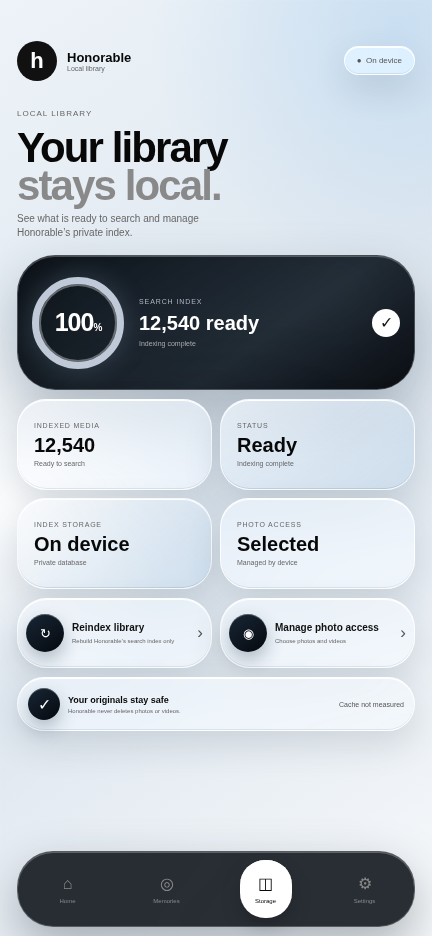
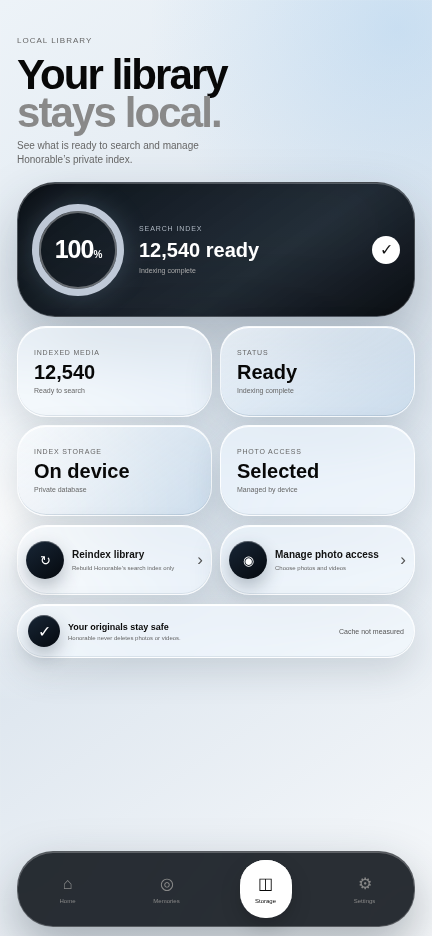
Remove repeated top branding from screens

Changed region(s): [[0.0301, 0.031, 0.963, 0.8056], [0.8426, 0.062, 0.9329, 0.0929], [0.9028, 0.7436, 0.9329, 0.7746]]

diff --git a/Honorable-mobile-app-main/mobile-react-native/src/screens/HomeScreen.tsx b/Honorable-mobile-app-main/mobile-react-native/src/screens/HomeScreen.tsx
@@ -4,5 +4,5 @@ import{SafeAreaView}from'react-native-safe-area-context';
 import{Badge}from'@/components/ui/badge';import{Button}from'@/components/ui/button';import{Text}from'@/components/ui/text';import{Progress}from'@/components/ui/progress';
 import{HonorableSearchBar}from'../components/HonorableSearchBar';import{MediaGrid,MediaItem,previewMedia}from'../components/MediaGrid';import{MediaViewer}from'../components/MediaViewer';import{SearchModeControl,SearchModeSheet}from'../components/SearchModeSheet';import{colors}from'../design-system/tokens';import{honorableNative,EntitlementState,SearchResponse}from'../native/HonorableNative';import type{SearchModeId}from'../search/searchModes';
 const filters=['All','Photos','Videos','Screenshots']as const;type Filter=typeof filters[number];
-export function HomeScreen(){const[query,setQuery]=useState('');const[response,setResponse]=useState<SearchResponse>();const[loading,setLoading]=useState(false);const[error,setError]=useState('');const[filter,setFilter]=useState<Filter>('All');const[selected,setSelected]=useState<MediaItem>();const[mode,setMode]=useState<SearchModeId>('QUICK');const[modeOpen,setModeOpen]=useState(false);const[entitlement,setEntitlement]=useState<EntitlementState>();useEffect(()=>{honorableNative.getEntitlementState().then(setEntitlement).catch(()=>undefined)},[]);const nativeItems=useMemo(()=>response?.results.map(r=>({id:`${r.mediaId}-${r.rank}`,uri:r.mediaUri,type:r.mediaType,result:r,duration:r.bestTimestampMs===undefined?undefined:`${Math.floor(r.bestTimestampMs/60000)}:${String(Math.floor(r.bestTimestampMs/1000)%60).padStart(2,'0')}`}as MediaItem))??[],[response]);const demo=__DEV__&&!response?previewMedia:[];const items=(nativeItems.length?nativeItems:demo).filter(item=>filter==='All'||filter==='Photos'&&item.type==='IMAGE'||filter==='Videos'&&item.type==='VIDEO'||filter==='Screenshots'&&item.id.includes('verification'));const search=async()=>{const clean=query.trim();if(!clean)return;Keyboard.dismiss();setLoading(true);setError('');try{setResponse(await honorableNative.search(clean));}catch(value){setError(value instanceof Error?value.message:'Search unavailable');setResponse(undefined)}finally{setLoading(false)}};return <SafeAreaView edges={['top']} style={styles.safe}><ScrollView keyboardShouldPersistTaps="handled" contentContainerStyle={styles.content}><View style={styles.header}><Text className="text-[12px] font-semibold tracking-[2px] text-muted-foreground">HONORABLE</Text><Text className="text-[13px] text-muted-foreground">On-device</Text></View><Text accessibilityRole="header" className="mx-4 mt-4 text-[30px] font-semibold leading-[34px] tracking-[-1px] text-foreground">Find a moment.</Text><Text className="mx-4 mb-4 mt-1 text-[14px] text-muted-foreground">Describe anything you remember.</Text><HonorableSearchBar value={query} onChangeText={setQuery} onSubmit={search}/><SearchModeControl value={mode} onPress={()=>setModeOpen(true)}/>{loading&&<View style={styles.index}><ActivityIndicator color={colors.accent}/><Text variant="muted">Searching your library…</Text></View>}{!!error&&<View style={styles.message}><Text className="text-destructive">{error}</Text></View>}{response&&!response.confident&&<View style={styles.message}><Text variant="large">No clear match yet</Text><Text variant="muted">Try a color, place, date, object, or visible text.</Text></View>}{!loading&&items.length>0&&<><View style={styles.resultsHeader}><Text className="text-[17px] font-semibold text-foreground">{response?`${nativeItems.length} matches`:'Recent'}</Text>{response?<Badge variant="secondary"><Text>{response.decision}</Text></Badge>:<Text variant="muted" className="text-[12px]">Your library</Text>}</View>{response&&<ScrollView horizontal showsHorizontalScrollIndicator={false} contentContainerStyle={styles.filters}>{filters.map(item=><Button key={item} size="sm" variant={filter===item?'default':'ghost'} className={filter===item?'rounded-full':'rounded-full bg-secondary/40'} onPress={()=>setFilter(item)}><Text>{item}</Text></Button>)}</ScrollView>}<MediaGrid items={items} onPress={setSelected}/></>}{loading&&<View style={styles.progress}><Progress value={64} indicatorClassName="bg-accent"/><Text variant="muted">You can keep browsing while Honorable searches.</Text></View>}</ScrollView><MediaViewer item={selected} onClose={()=>setSelected(undefined)}/><SearchModeSheet visible={modeOpen} value={mode} entitlement={entitlement} onClose={()=>setModeOpen(false)} onSelect={setMode}/></SafeAreaView>}
-const styles=StyleSheet.create({safe:{flex:1,backgroundColor:colors.background},content:{paddingBottom:90},header:{paddingHorizontal:16,paddingTop:10,flexDirection:'row',justifyContent:'space-between',alignItems:'center'},index:{marginHorizontal:18,marginTop:14,flexDirection:'row',gap:10,alignItems:'center'},message:{margin:16,padding:18,gap:6,borderRadius:18,backgroundColor:colors.surface},resultsHeader:{marginTop:20,marginBottom:10,paddingHorizontal:16,flexDirection:'row',justifyContent:'space-between',alignItems:'center',gap:10},filters:{paddingHorizontal:12,paddingBottom:12,gap:6},progress:{margin:18,gap:10}});
+export function HomeScreen(){const[query,setQuery]=useState('');const[response,setResponse]=useState<SearchResponse>();const[loading,setLoading]=useState(false);const[error,setError]=useState('');const[filter,setFilter]=useState<Filter>('All');const[selected,setSelected]=useState<MediaItem>();const[mode,setMode]=useState<SearchModeId>('QUICK');const[modeOpen,setModeOpen]=useState(false);const[entitlement,setEntitlement]=useState<EntitlementState>();useEffect(()=>{honorableNative.getEntitlementState().then(setEntitlement).catch(()=>undefined)},[]);const nativeItems=useMemo(()=>response?.results.map(r=>({id:`${r.mediaId}-${r.rank}`,uri:r.mediaUri,type:r.mediaType,result:r,duration:r.bestTimestampMs===undefined?undefined:`${Math.floor(r.bestTimestampMs/60000)}:${String(Math.floor(r.bestTimestampMs/1000)%60).padStart(2,'0')}`}as MediaItem))??[],[response]);const demo=__DEV__&&!response?previewMedia:[];const items=(nativeItems.length?nativeItems:demo).filter(item=>filter==='All'||filter==='Photos'&&item.type==='IMAGE'||filter==='Videos'&&item.type==='VIDEO'||filter==='Screenshots'&&item.id.includes('verification'));const search=async()=>{const clean=query.trim();if(!clean)return;Keyboard.dismiss();setLoading(true);setError('');try{setResponse(await honorableNative.search(clean));}catch(value){setError(value instanceof Error?value.message:'Search unavailable');setResponse(undefined)}finally{setLoading(false)}};return <SafeAreaView edges={['top']} style={styles.safe}><ScrollView keyboardShouldPersistTaps="handled" contentContainerStyle={styles.content}><View style={styles.header}><Text className="text-[13px] text-muted-foreground">On-device</Text></View><Text accessibilityRole="header" className="mx-4 mt-4 text-[30px] font-semibold leading-[34px] tracking-[-1px] text-foreground">Find a moment.</Text><Text className="mx-4 mb-4 mt-1 text-[14px] text-muted-foreground">Describe anything you remember.</Text><HonorableSearchBar value={query} onChangeText={setQuery} onSubmit={search}/><SearchModeControl value={mode} onPress={()=>setModeOpen(true)}/>{loading&&<View style={styles.index}><ActivityIndicator color={colors.accent}/><Text variant="muted">Searching your library…</Text></View>}{!!error&&<View style={styles.message}><Text className="text-destructive">{error}</Text></View>}{response&&!response.confident&&<View style={styles.message}><Text variant="large">No clear match yet</Text><Text variant="muted">Try a color, place, date, object, or visible text.</Text></View>}{!loading&&items.length>0&&<><View style={styles.resultsHeader}><Text className="text-[17px] font-semibold text-foreground">{response?`${nativeItems.length} matches`:'Recent'}</Text>{response?<Badge variant="secondary"><Text>{response.decision}</Text></Badge>:<Text variant="muted" className="text-[12px]">Your library</Text>}</View>{response&&<ScrollView horizontal showsHorizontalScrollIndicator={false} contentContainerStyle={styles.filters}>{filters.map(item=><Button key={item} size="sm" variant={filter===item?'default':'ghost'} className={filter===item?'rounded-full':'rounded-full bg-secondary/40'} onPress={()=>setFilter(item)}><Text>{item}</Text></Button>)}</ScrollView>}<MediaGrid items={items} onPress={setSelected}/></>}{loading&&<View style={styles.progress}><Progress value={64} indicatorClassName="bg-accent"/><Text variant="muted">You can keep browsing while Honorable searches.</Text></View>}</ScrollView><MediaViewer item={selected} onClose={()=>setSelected(undefined)}/><SearchModeSheet visible={modeOpen} value={mode} entitlement={entitlement} onClose={()=>setModeOpen(false)} onSelect={setMode}/></SafeAreaView>}
+const styles=StyleSheet.create({safe:{flex:1,backgroundColor:colors.background},content:{paddingBottom:90},header:{paddingHorizontal:16,paddingTop:10,flexDirection:'row',justifyContent:'flex-end',alignItems:'center'},index:{marginHorizontal:18,marginTop:14,flexDirection:'row',gap:10,alignItems:'center'},message:{margin:16,padding:18,gap:6,borderRadius:18,backgroundColor:colors.surface},resultsHeader:{marginTop:20,marginBottom:10,paddingHorizontal:16,flexDirection:'row',justifyContent:'space-between',alignItems:'center',gap:10},filters:{paddingHorizontal:12,paddingBottom:12,gap:6},progress:{margin:18,gap:10}});

diff --git a/Honorable-mobile-app-main/mobile-react-native/src/screens/StorageScreen.tsx b/Honorable-mobile-app-main/mobile-react-native/src/screens/StorageScreen.tsx
@@ -23,7 +23,7 @@ export function StorageScreen(){
   const reindex=()=>Alert.alert('Reindex library?','This rebuilds only Honorable’s private search index. Your original photos and videos will never be deleted.',[{text:'Cancel',style:'cancel'},{text:'Reindex',onPress:async()=>{setRefreshing(true);try{await honorableNative.refreshIndex();await load()}catch(value){setError(value instanceof Error?value.message:'Could not refresh index')}finally{setRefreshing(false)}}}]);
   const indexed=status?.indexedCount.toLocaleString()??'—';const ready=status?.status.toLowerCase().includes('ready');
   return <SafeAreaView edges={['top']} style={s.safe}><ScrollView contentContainerStyle={s.content}>
-    <View style={s.brand}><View style={s.mark}><Text style={s.markText}>h</Text></View><View><Text style={s.brandName}>Honorable</Text><Text style={s.brandDetail}>Local library</Text></View><View style={s.localPill}><View style={s.localDot}/><Text style={s.localText}>On device</Text></View></View>
+    <View style={s.utilityBar}><View style={s.localPill}><View style={s.localDot}/><Text style={s.localText}>On device</Text></View></View>
     <View style={s.intro}><Text style={s.eyebrow}>LOCAL LIBRARY</Text><Text accessibilityRole="header" style={s.title}>Your library</Text><Text style={[s.title,s.titleMuted]}>stays local.</Text><Text style={s.subtitle}>See what is ready to search and manage Honorable’s private index.</Text></View>
     {loading?<ActivityIndicator style={s.loading} color={p.ink}/>:<>
       <View style={s.indexCard}><View style={s.progressRing}><Text style={s.progressValue}>{ready?'100':'••'}<Text style={s.progressUnit}>%</Text></Text></View><View style={s.indexCopy}><Text style={s.indexLabel}>SEARCH INDEX</Text><Text style={s.indexValue}>{indexed} ready</Text><Text style={s.indexDetail}>{status?.status??'Status unavailable'}</Text></View><View style={s.check}><Check color={p.ink} size={16}/></View></View>
@@ -34,4 +34,4 @@ export function StorageScreen(){
   </ScrollView></SafeAreaView>;
 }
 
-const s=StyleSheet.create({safe:{flex:1,backgroundColor:p.bg},content:{paddingHorizontal:17,paddingTop:10,paddingBottom:104},brand:{height:58,flexDirection:'row',alignItems:'center'},mark:{width:40,height:40,borderRadius:20,alignItems:'center',justifyContent:'center',backgroundColor:p.ink},markText:{color:p.white,fontSize:22,fontWeight:'700'},brandName:{marginLeft:10,color:p.ink,fontSize:13,fontWeight:'700'},brandDetail:{marginLeft:10,color:p.muted,fontSize:8},localPill:{marginLeft:'auto',paddingHorizontal:12,height:34,borderRadius:17,borderWidth:1,borderColor:p.line,backgroundColor:p.white,flexDirection:'row',alignItems:'center',gap:5},localDot:{width:4,height:4,borderRadius:2,backgroundColor:'#6C91C2'},localText:{color:p.muted,fontSize:9},intro:{marginTop:12},eyebrow:{color:p.muted,fontSize:9,fontWeight:'600',letterSpacing:1.2},title:{marginTop:8,color:p.ink,fontSize:42,lineHeight:40,fontWeight:'700',letterSpacing:-1.8},titleMuted:{marginTop:-2,color:'#898989'},subtitle:{maxWidth:285,marginTop:6,color:p.muted,fontSize:12,lineHeight:17},loading:{marginTop:90},indexCard:{height:136,marginTop:15,padding:14,borderRadius:38,backgroundColor:p.ink,flexDirection:'row',alignItems:'center'},progressRing:{width:92,height:92,borderRadius:46,borderWidth:7,borderColor:p.ring,alignItems:'center',justifyContent:'center'},progressValue:{color:p.white,fontSize:24,fontWeight:'700'},progressUnit:{fontSize:10},indexCopy:{flex:1,paddingLeft:15},indexLabel:{color:'#AEB7C2',fontSize:8,fontWeight:'600',letterSpacing:1},indexValue:{marginTop:6,color:p.white,fontSize:20,fontWeight:'700'},indexDetail:{marginTop:5,color:'#AAAAAA',fontSize:9},check:{width:29,height:29,borderRadius:15,alignItems:'center',justifyContent:'center',backgroundColor:p.white},metrics:{marginTop:9,flexDirection:'row',flexWrap:'wrap',gap:8},metric:{width:'48.8%',height:91,paddingHorizontal:16,justifyContent:'center',borderRadius:29,borderWidth:1,borderColor:p.line,backgroundColor:p.soft},metricStrong:{backgroundColor:p.strong},metricLabel:{color:p.muted,fontSize:8,fontWeight:'600',letterSpacing:.8},metricValue:{marginTop:5,color:p.ink,fontSize:20,fontWeight:'700'},metricDetail:{marginTop:3,color:p.muted,fontSize:8},actions:{marginTop:9,flexDirection:'row',gap:8},action:{width:'48.8%',height:72,padding:8,borderRadius:30,borderWidth:1,borderColor:p.line,backgroundColor:'#EEEEEE',flexDirection:'row',alignItems:'center'},disabled:{opacity:.55},actionIcon:{width:38,height:38,borderRadius:19,alignItems:'center',justifyContent:'center',backgroundColor:p.ink},actionCopy:{flex:1,paddingLeft:8},actionTitle:{color:p.ink,fontSize:10,fontWeight:'700'},actionDetail:{marginTop:4,color:p.muted,fontSize:7,lineHeight:9},safeNote:{height:55,marginTop:9,paddingHorizontal:10,borderRadius:28,borderWidth:1,borderColor:p.line,backgroundColor:'#F8F8F8',flexDirection:'row',alignItems:'center'},safeIcon:{width:32,height:32,borderRadius:16,alignItems:'center',justifyContent:'center',backgroundColor:p.ink},safeCopy:{flex:1,paddingLeft:8},safeTitle:{color:p.ink,fontSize:9,fontWeight:'700'},safeDetail:{marginTop:3,color:p.muted,fontSize:7},cache:{color:p.muted,fontSize:8},error:{marginTop:12,color:'#A33',fontSize:12}});
+const s=StyleSheet.create({safe:{flex:1,backgroundColor:p.bg},content:{paddingHorizontal:17,paddingTop:10,paddingBottom:104},utilityBar:{height:42,flexDirection:'row',justifyContent:'flex-end',alignItems:'center'},localPill:{paddingHorizontal:12,height:34,borderRadius:17,borderWidth:1,borderColor:p.line,backgroundColor:p.white,flexDirection:'row',alignItems:'center',gap:5},localDot:{width:4,height:4,borderRadius:2,backgroundColor:'#6C91C2'},localText:{color:p.muted,fontSize:9},intro:{marginTop:8},eyebrow:{color:p.muted,fontSize:9,fontWeight:'600',letterSpacing:1.2},title:{marginTop:8,color:p.ink,fontSize:42,lineHeight:40,fontWeight:'700',letterSpacing:-1.8},titleMuted:{marginTop:-2,color:'#898989'},subtitle:{maxWidth:285,marginTop:6,color:p.muted,fontSize:12,lineHeight:17},loading:{marginTop:90},indexCard:{height:136,marginTop:15,padding:14,borderRadius:38,backgroundColor:p.ink,flexDirection:'row',alignItems:'center'},progressRing:{width:92,height:92,borderRadius:46,borderWidth:7,borderColor:p.ring,alignItems:'center',justifyContent:'center'},progressValue:{color:p.white,fontSize:24,fontWeight:'700'},progressUnit:{fontSize:10},indexCopy:{flex:1,paddingLeft:15},indexLabel:{color:'#AEB7C2',fontSize:8,fontWeight:'600',letterSpacing:1},indexValue:{marginTop:6,color:p.white,fontSize:20,fontWeight:'700'},indexDetail:{marginTop:5,color:'#AAAAAA',fontSize:9},check:{width:29,height:29,borderRadius:15,alignItems:'center',justifyContent:'center',backgroundColor:p.white},metrics:{marginTop:9,flexDirection:'row',flexWrap:'wrap',gap:8},metric:{width:'48.8%',height:91,paddingHorizontal:16,justifyContent:'center',borderRadius:29,borderWidth:1,borderColor:p.line,backgroundColor:p.soft},metricStrong:{backgroundColor:p.strong},metricLabel:{color:p.muted,fontSize:8,fontWeight:'600',letterSpacing:.8},metricValue:{marginTop:5,color:p.ink,fontSize:20,fontWeight:'700'},metricDetail:{marginTop:3,color:p.muted,fontSize:8},actions:{marginTop:9,flexDirection:'row',gap:8},action:{width:'48.8%',height:72,padding:8,borderRadius:30,borderWidth:1,borderColor:p.line,backgroundColor:'#EEEEEE',flexDirection:'row',alignItems:'center'},disabled:{opacity:.55},actionIcon:{width:38,height:38,borderRadius:19,alignItems:'center',justifyContent:'center',backgroundColor:p.ink},actionCopy:{flex:1,paddingLeft:8},actionTitle:{color:p.ink,fontSize:10,fontWeight:'700'},actionDetail:{marginTop:4,color:p.muted,fontSize:7,lineHeight:9},safeNote:{height:55,marginTop:9,paddingHorizontal:10,borderRadius:28,borderWidth:1,borderColor:p.line,backgroundColor:'#F8F8F8',flexDirection:'row',alignItems:'center'},safeIcon:{width:32,height:32,borderRadius:16,alignItems:'center',justifyContent:'center',backgroundColor:p.ink},safeCopy:{flex:1,paddingLeft:8},safeTitle:{color:p.ink,fontSize:9,fontWeight:'700'},safeDetail:{marginTop:3,color:p.muted,fontSize:7},cache:{color:p.muted,fontSize:8},error:{marginTop:12,color:'#A33',fontSize:12}});

diff --git a/Honorable-mobile-app-main/mobile-react-native/src/screens/SettingsScreen.tsx b/Honorable-mobile-app-main/mobile-react-native/src/screens/SettingsScreen.tsx
@@ -12,11 +12,11 @@ const glassDepth={shadowColor:'#34495C',shadowOffset:{width:0,height:14},shadowO
 function Row({icon,title,detail,onPress}:{icon:React.ReactNode;title:string;detail:string;onPress?:()=>void}){return <Pressable accessibilityRole="button" disabled={!onPress} onPress={onPress} style={[s.row,!onPress&&s.disabled]}><View style={s.rowIcon}>{icon}</View><View style={s.rowCopy}><Text style={s.rowTitle}>{title}</Text><Text style={s.rowDetail}>{detail}</Text></View><ChevronRight color={p.muted} size={18}/></Pressable>}
 
 export function SettingsScreen(){const navigation=useNavigation<NativeStackNavigationProp<RootStackParamList>>();return <SafeAreaView edges={['top']} style={s.safe}><ScrollView contentContainerStyle={s.content}>
-  <View style={s.brand}><View style={s.mark}><Text style={s.markText}>h</Text></View><View><Text style={s.brandName}>Honorable</Text><Text style={s.brandDetail}>Your preferences</Text></View><View style={s.profile}><CircleUserRound color={p.ink} size={18}/></View></View>
+  <View style={s.utilityBar}><View style={s.profile}><CircleUserRound color={p.ink} size={18}/></View></View>
   <View style={s.intro}><Text style={s.eyebrow}>SETTINGS</Text><Text accessibilityRole="header" style={s.title}>Made for you.</Text><Text style={[s.title,s.titleMuted]}>Private by design.</Text><Text style={s.subtitle}>Control access, plans, and the details that make Honorable yours.</Text></View>
   <View style={s.privacyCard}><View style={s.privacyIcon}><ShieldCheck color={p.ink} size={22}/></View><View style={s.privacyCopy}><Text style={s.privacyLabel}>PRIVACY</Text><Text style={s.privacyTitle}>On-device by default</Text><Text style={s.privacyDetail}>Your searches and media stay on this phone.</Text></View><View style={s.check}><Check color={p.ink} size={15}/></View></View>
   <View style={s.quickGrid}><Pressable style={[s.quick,glassDepth]} onPress={()=>Linking.openSettings()}><Images color={p.ink} size={20}/><Text style={s.quickLabel}>PHOTO ACCESS</Text><Text style={s.quickTitle}>Managed by device</Text><Text style={s.quickDetail}>Choose photos & videos</Text></Pressable><Pressable style={[s.quick,s.quickStrong,glassDepth]} onPress={()=>navigation.navigate('Usage')}><Heart color={p.ink} size={20}/><Text style={s.quickLabel}>YOUR PLAN</Text><Text style={s.quickTitle}>Usage & limits</Text><Text style={s.quickDetail}>See what is included</Text></Pressable></View>
   <Text style={s.sectionLabel}>HONORABLE</Text><View style={[s.rows,glassDepth]}><Row icon={<Sparkles color={p.white} size={16}/>} title="Plans" detail="Compare available options" onPress={()=>navigation.navigate('Plans')}/><Row icon={<FileText color={p.white} size={16}/>} title="About & legal" detail="Terms of Service and Privacy Policy" onPress={()=>navigation.navigate('AboutLegal')}/><Row icon={<ShieldCheck color={p.white} size={16}/>} title="Engine health" detail="Developer diagnostics"/></View>
 </ScrollView></SafeAreaView>}
 
-const s=StyleSheet.create({safe:{flex:1,backgroundColor:p.bg},content:{paddingHorizontal:17,paddingTop:10,paddingBottom:104},brand:{height:58,flexDirection:'row',alignItems:'center'},mark:{width:40,height:40,borderRadius:20,alignItems:'center',justifyContent:'center',backgroundColor:p.ink},markText:{color:p.white,fontSize:22,fontWeight:'700'},brandName:{marginLeft:10,color:p.ink,fontSize:13,fontWeight:'700'},brandDetail:{marginLeft:10,color:p.muted,fontSize:8},profile:{marginLeft:'auto',width:38,height:38,borderRadius:19,borderWidth:1,borderColor:p.line,backgroundColor:p.white,alignItems:'center',justifyContent:'center'},intro:{marginTop:12},eyebrow:{color:p.muted,fontSize:9,fontWeight:'600',letterSpacing:1.2},title:{marginTop:8,color:p.ink,fontSize:40,lineHeight:38,fontWeight:'700',letterSpacing:-1.7},titleMuted:{marginTop:-2,color:'#898989'},subtitle:{maxWidth:315,marginTop:7,color:p.muted,fontSize:12,lineHeight:17},privacyCard:{height:126,marginTop:16,padding:14,borderRadius:38,backgroundColor:p.ink,flexDirection:'row',alignItems:'center'},privacyIcon:{width:62,height:62,borderRadius:31,backgroundColor:p.white,alignItems:'center',justifyContent:'center'},privacyCopy:{flex:1,paddingLeft:14},privacyLabel:{color:'#AEB7C2',fontSize:8,fontWeight:'600',letterSpacing:1},privacyTitle:{marginTop:6,color:p.white,fontSize:18,fontWeight:'700'},privacyDetail:{maxWidth:205,marginTop:5,color:'#AAAAAA',fontSize:9,lineHeight:12},check:{width:28,height:28,borderRadius:14,backgroundColor:p.white,alignItems:'center',justifyContent:'center'},quickGrid:{marginTop:9,flexDirection:'row',gap:8},quick:{width:'48.8%',height:124,padding:16,borderRadius:31,borderWidth:1,borderColor:p.line,backgroundColor:p.soft},quickStrong:{backgroundColor:p.strong},quickLabel:{marginTop:12,color:p.muted,fontSize:8,fontWeight:'600',letterSpacing:.8},quickTitle:{marginTop:5,color:p.ink,fontSize:16,fontWeight:'700'},quickDetail:{marginTop:4,color:p.muted,fontSize:8},sectionLabel:{marginTop:18,marginBottom:7,color:p.muted,fontSize:8,fontWeight:'600',letterSpacing:1},rows:{borderRadius:28,overflow:'hidden',borderWidth:1,borderColor:p.line,backgroundColor:'#EEEEEE'},row:{minHeight:66,paddingHorizontal:10,flexDirection:'row',alignItems:'center',borderBottomWidth:StyleSheet.hairlineWidth,borderBottomColor:p.line},disabled:{opacity:.72},rowIcon:{width:38,height:38,borderRadius:19,backgroundColor:p.ink,alignItems:'center',justifyContent:'center'},rowCopy:{flex:1,paddingLeft:10},rowTitle:{color:p.ink,fontSize:11,fontWeight:'700'},rowDetail:{marginTop:4,color:p.muted,fontSize:8}});
+const s=StyleSheet.create({safe:{flex:1,backgroundColor:p.bg},content:{paddingHorizontal:17,paddingTop:10,paddingBottom:104},utilityBar:{height:42,flexDirection:'row',justifyContent:'flex-end',alignItems:'center'},profile:{width:38,height:38,borderRadius:19,borderWidth:1,borderColor:p.line,backgroundColor:p.white,alignItems:'center',justifyContent:'center'},intro:{marginTop:8},eyebrow:{color:p.muted,fontSize:9,fontWeight:'600',letterSpacing:1.2},title:{marginTop:8,color:p.ink,fontSize:40,lineHeight:38,fontWeight:'700',letterSpacing:-1.7},titleMuted:{marginTop:-2,color:'#898989'},subtitle:{maxWidth:315,marginTop:7,color:p.muted,fontSize:12,lineHeight:17},privacyCard:{height:126,marginTop:16,padding:14,borderRadius:38,backgroundColor:p.ink,flexDirection:'row',alignItems:'center'},privacyIcon:{width:62,height:62,borderRadius:31,backgroundColor:p.white,alignItems:'center',justifyContent:'center'},privacyCopy:{flex:1,paddingLeft:14},privacyLabel:{color:'#AEB7C2',fontSize:8,fontWeight:'600',letterSpacing:1},privacyTitle:{marginTop:6,color:p.white,fontSize:18,fontWeight:'700'},privacyDetail:{maxWidth:205,marginTop:5,color:'#AAAAAA',fontSize:9,lineHeight:12},check:{width:28,height:28,borderRadius:14,backgroundColor:p.white,alignItems:'center',justifyContent:'center'},quickGrid:{marginTop:9,flexDirection:'row',gap:8},quick:{width:'48.8%',height:124,padding:16,borderRadius:31,borderWidth:1,borderColor:p.line,backgroundColor:p.soft},quickStrong:{backgroundColor:p.strong},quickLabel:{marginTop:12,color:p.muted,fontSize:8,fontWeight:'600',letterSpacing:.8},quickTitle:{marginTop:5,color:p.ink,fontSize:16,fontWeight:'700'},quickDetail:{marginTop:4,color:p.muted,fontSize:8},sectionLabel:{marginTop:18,marginBottom:7,color:p.muted,fontSize:8,fontWeight:'600',letterSpacing:1},rows:{borderRadius:28,overflow:'hidden',borderWidth:1,borderColor:p.line,backgroundColor:'#EEEEEE'},row:{minHeight:66,paddingHorizontal:10,flexDirection:'row',alignItems:'center',borderBottomWidth:StyleSheet.hairlineWidth,borderBottomColor:p.line},disabled:{opacity:.72},rowIcon:{width:38,height:38,borderRadius:19,backgroundColor:p.ink,alignItems:'center',justifyContent:'center'},rowCopy:{flex:1,paddingLeft:10},rowTitle:{color:p.ink,fontSize:11,fontWeight:'700'},rowDetail:{marginTop:4,color:p.muted,fontSize:8}});

diff --git a/Honorable-mobile-app-main/ui-previews/render-overrides.css b/Honorable-mobile-app-main/ui-previews/render-overrides.css
@@ -415,3 +415,9 @@
   box-shadow: inset 0 1px 0 rgba(255,255,255,.28),0 8px 18px rgba(33,50,66,.3);
 }
 .bubble-ring { box-shadow: inset 0 0 0 2px rgba(255,255,255,.34),0 0 28px rgba(164,204,239,.22); }
+
+/* In-device screens do not repeat the product logo; the app icon already supplies identity. */
+.phone.legacy .legacy-brand { display: none; }
+.phone.legacy { padding-top: 24px; }
+.bubble-storage-intro,.bubble-settings-intro { margin-top: 5px; }
+.bubble-query { margin-top: 4px; }
